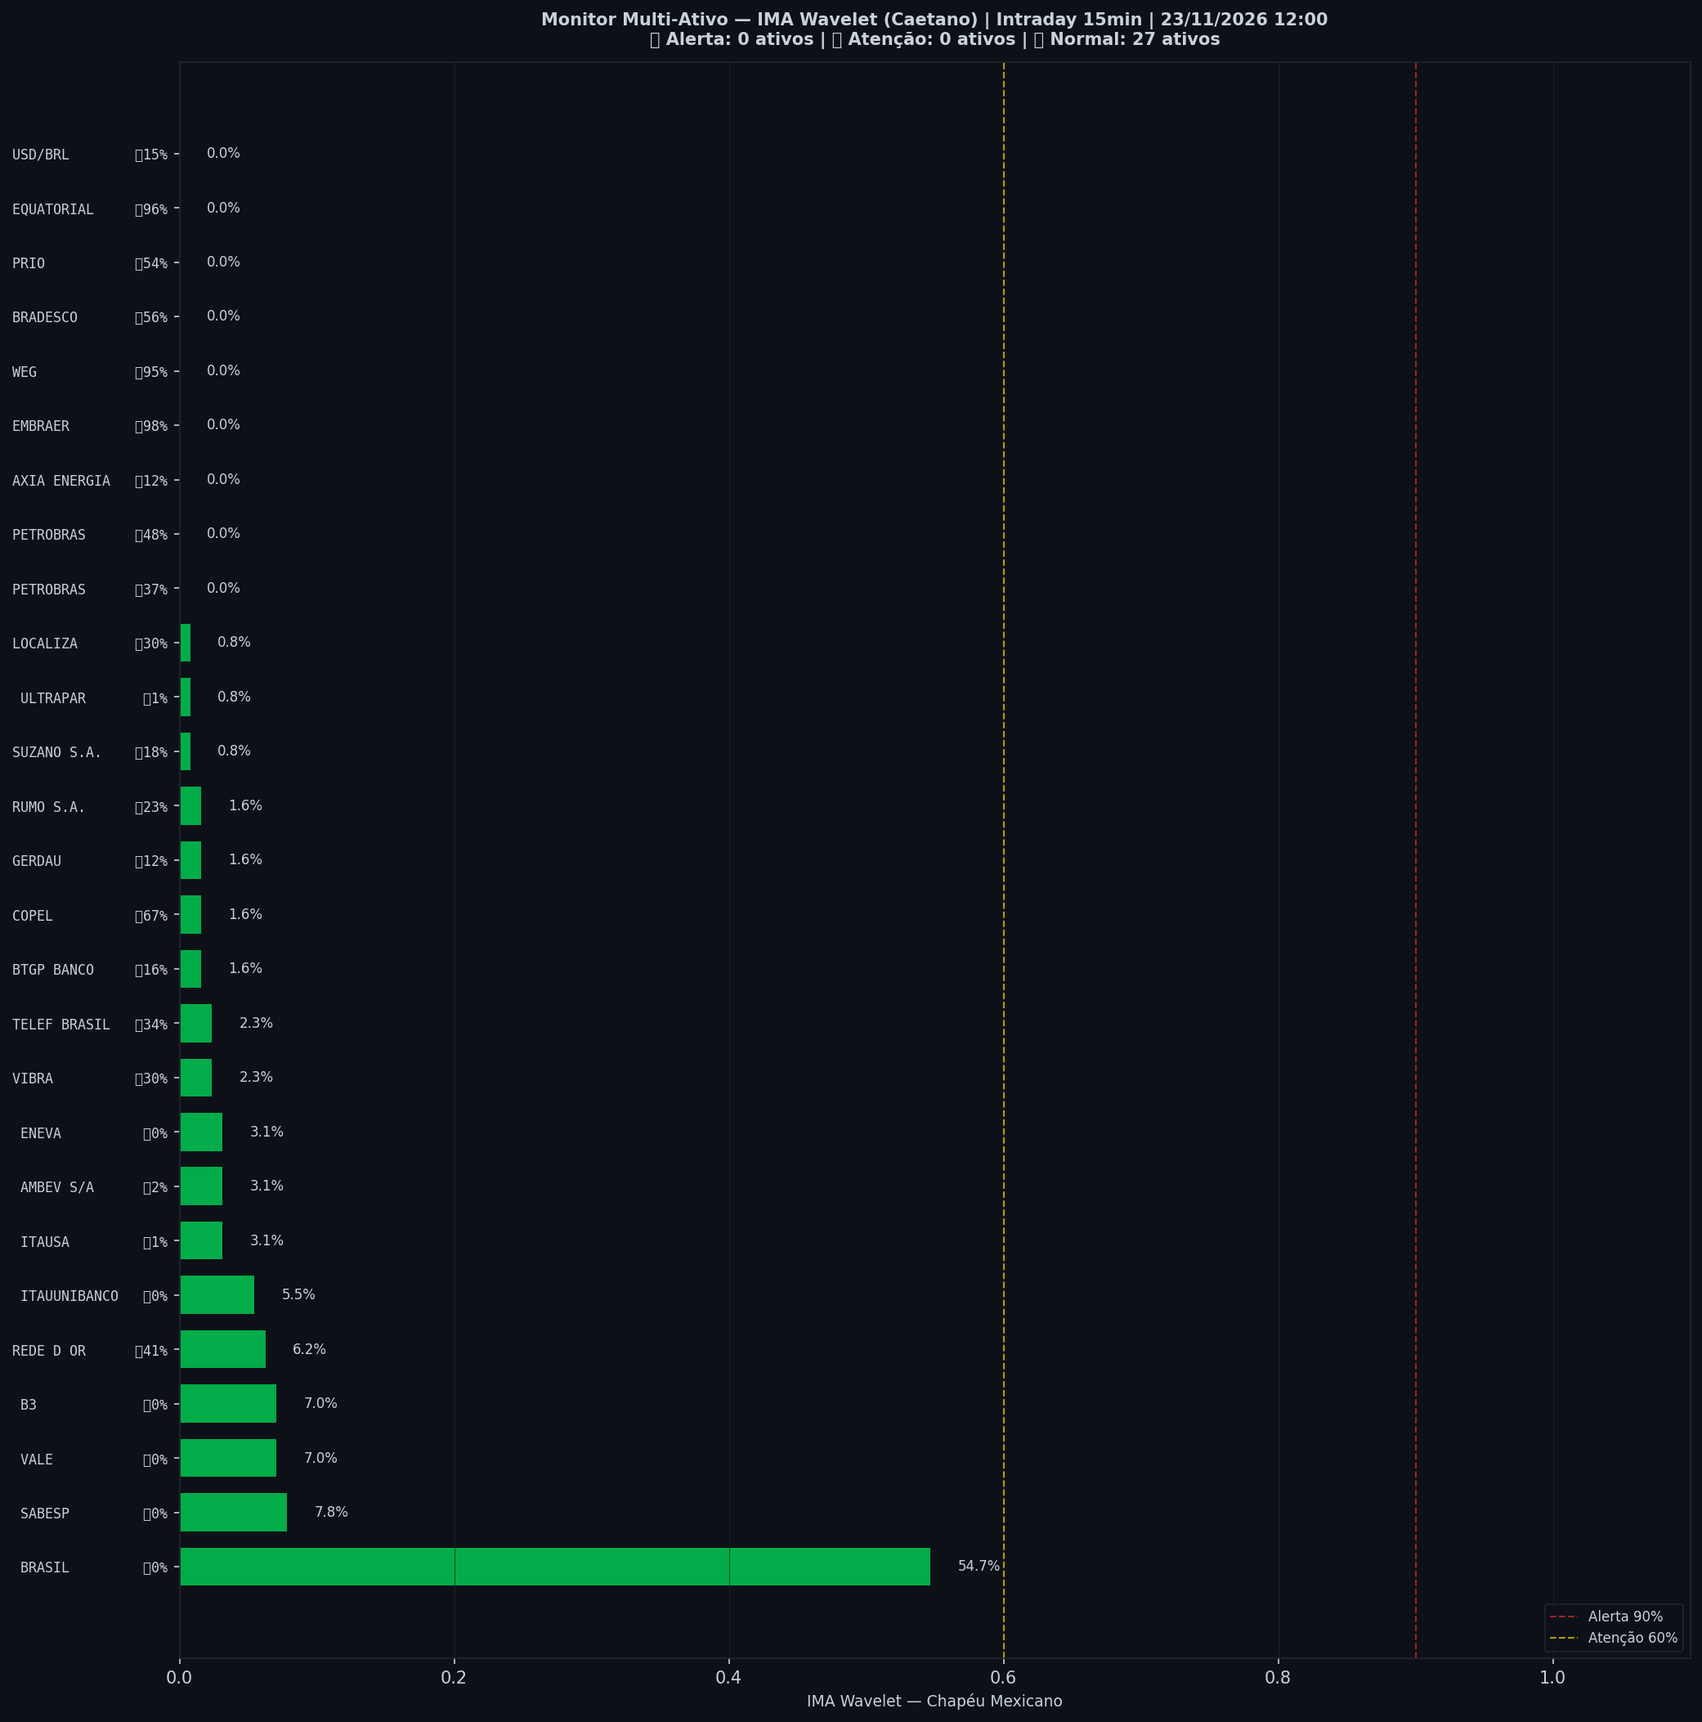
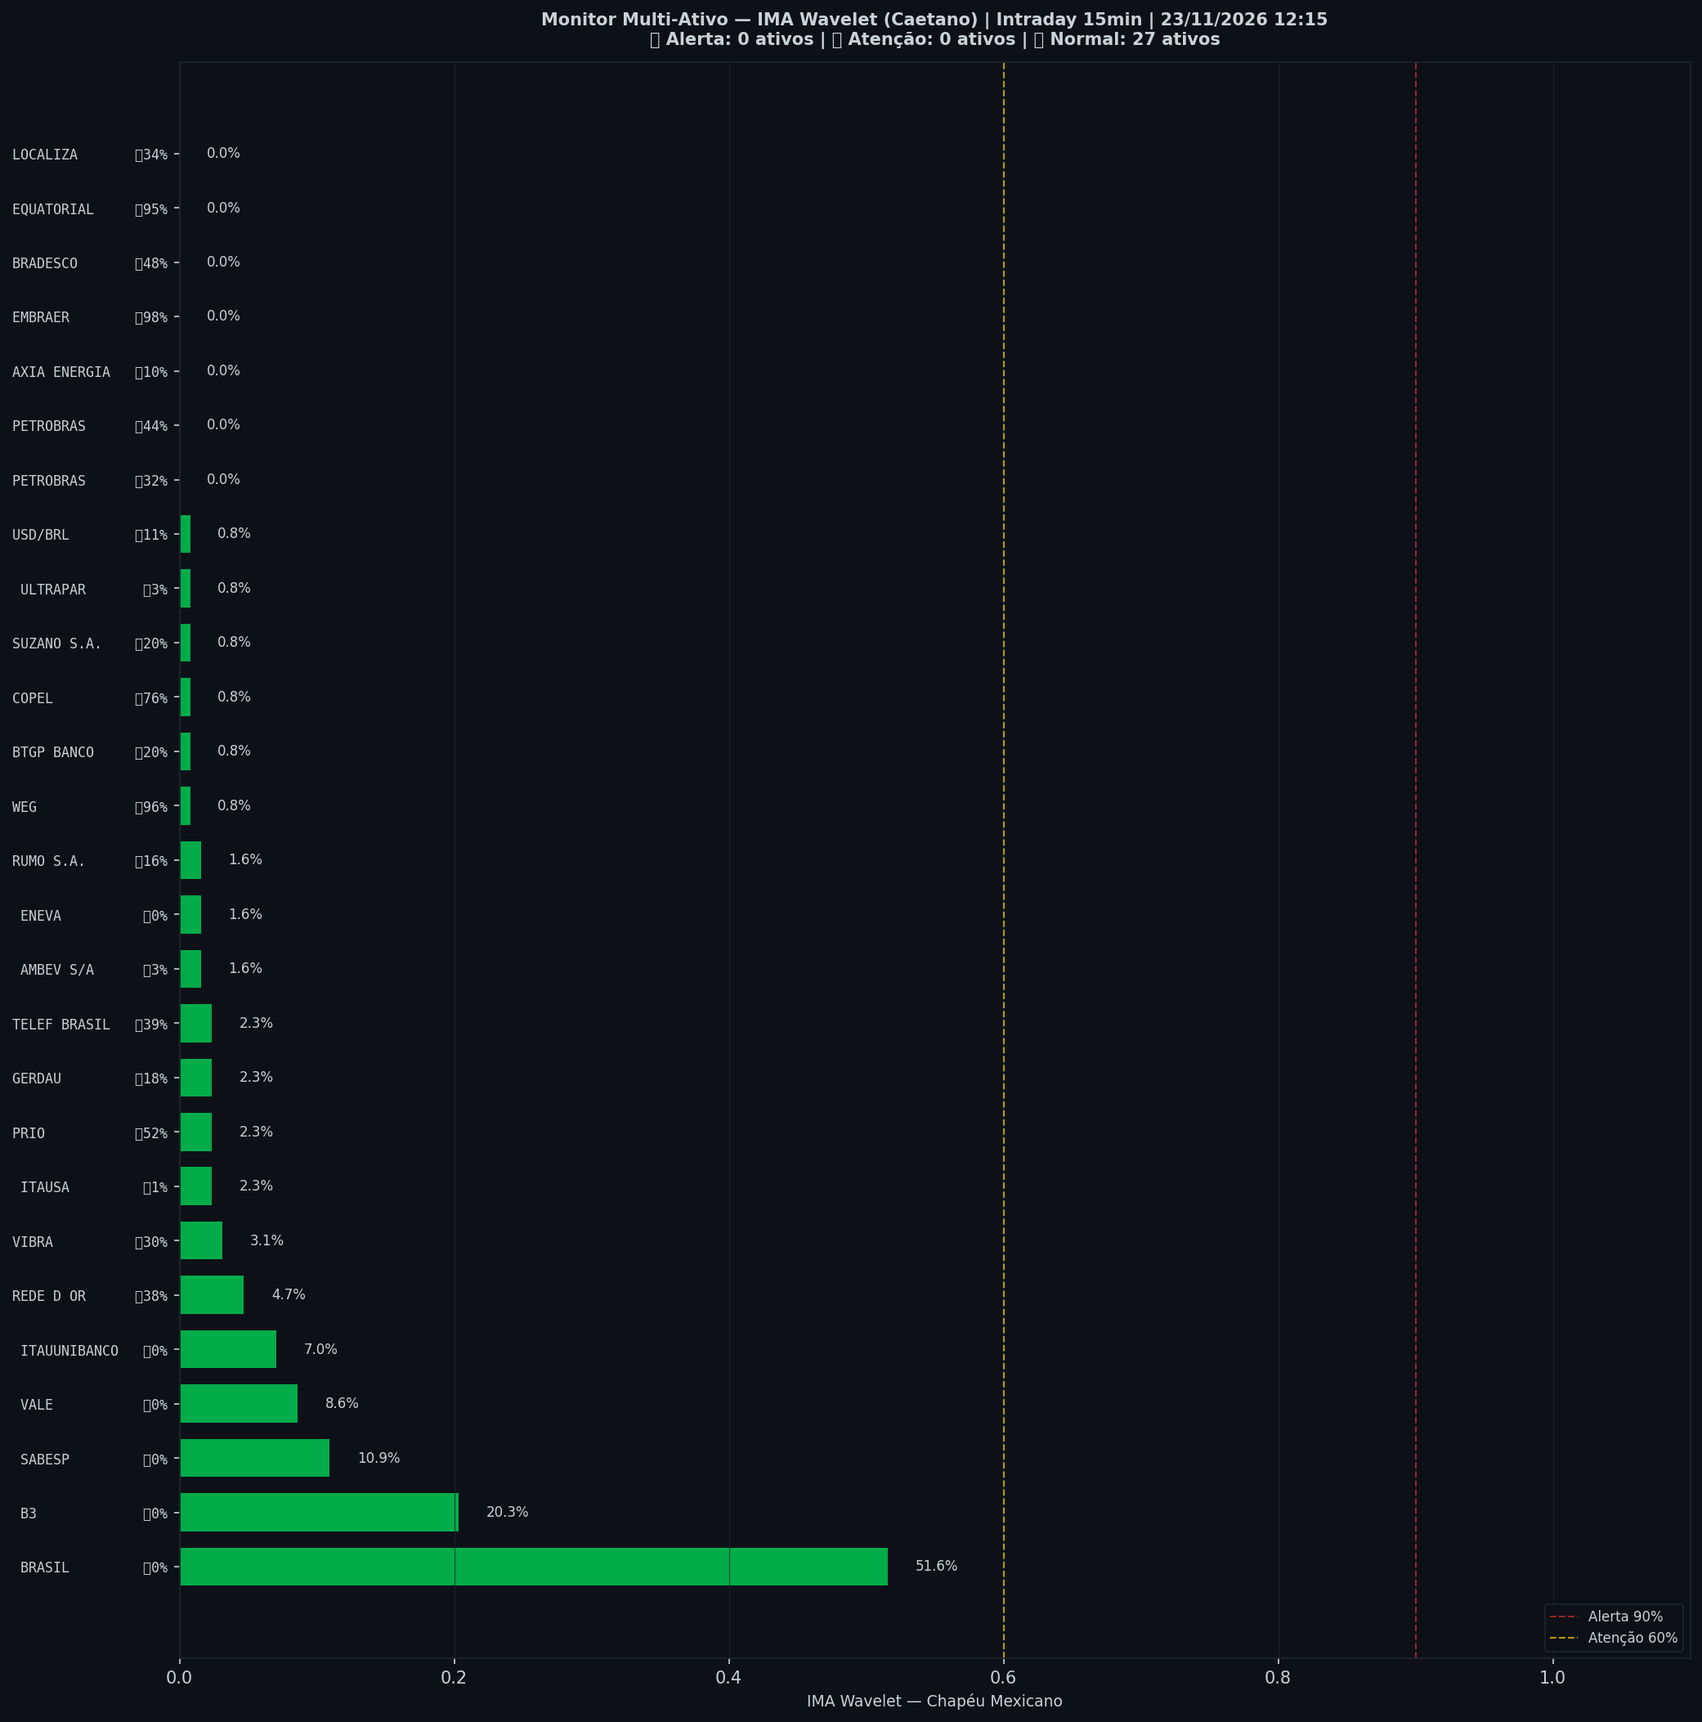
🤖 Auto: Sinal 23/11/2026 12:15

diff --git a/content/intraday/2026-11-23.md b/content/intraday/2026-11-23.md
@@ -1,13 +1,13 @@
 ---
-title: "🟢 Intraday 23/11/2026 11:15 BRT — VERDE"
+title: "🟢 Intraday 23/11/2026 11:30 BRT — VERDE"
 date: 2026-11-23
 tags: [intraday]
 ---
 
-> [!success] Onde o mercado está agora (23/11 11:15, candles de 15 min): **🟢 Calmo**
+> [!success] Onde o mercado está agora (23/11 11:30, candles de 15 min): **🟢 Calmo**
 > `Pânico ◀───────●─────────────▶ Euforia`
 >
-> **O Ibovespa cai 1,00% agora, aos 165.853 pontos.** O preço está dentro da sua faixa normal, sem excesso para cima nem para baixo.
+> **O Ibovespa cai 1,28% agora, aos 165.400 pontos.** O preço está dentro da sua faixa normal, sem excesso para cima nem para baixo.
 > No gráfico diário: 🌱 Fundo se desfazendo.
 >
 > *Leitura educacional baseada em 26 anos de dados. Não é recomendação de investimento.*
@@ -20,7 +20,7 @@ tags: [intraday]
 > | 📍 **Sinais** | hoje: nenhum sinal | [abrir](sinais-topo-fundo/) |
 > | 🧪 **Placar ao vivo** | 1 operação(ões), 0 com lucro, soma -0,8% | [abrir](operacoes/) |
 
-> [!success] IMA Intraday · 15 min (23/11 11:15): 🟢 **VERDE** — Risco 0% · ＝ +0 p.p. vs leitura anterior
+> [!success] IMA Intraday · 15 min (23/11 11:30): 🟢 **VERDE** — Risco 2% · ▲ +2 p.p. vs leitura anterior
 > `░░░░░░░░░░░░░░░░░░░░`
 > Preço na faixa normal em torno da tendência.
 
@@ -32,13 +32,13 @@ tags: [intraday]
 >
 > *Leitura educacional baseada em 26 anos de dados, não recomendação. [Como usar](../metodologia/crise#3-como-usar-na-prática).*
 
-| Indicador — IMA Intraday · 15 min (23/11 11:15) | Valor |
+| Indicador — IMA Intraday · 15 min (23/11 11:30) | Valor |
 |---|---|
-| 🔴 ζ Topo — preço esticado acima da tendência | **0%** |
-| 🔵 ζ Fundo — preço esticado abaixo da tendência | 33% |
+| 🔴 ζ Topo — preço esticado acima da tendência | **2%** |
+| 🔵 ζ Fundo — preço esticado abaixo da tendência | 30% |
 | 🫧 LPPL bolha — alta super-exponencial (risco de crash) | 0% |
 | 🫧 LPPL antibolha — queda super-exponencial (risco de repique) | 0% |
-| 📊 Ibovespa | 165.853 pts |
+| 📊 Ibovespa | 165.400 pts |
 
 ![Gráfico do sinal](../graficos/sinal_intraday.png)
 
@@ -46,6 +46,7 @@ tags: [intraday]
 
 | Data | Zona | Evento | Risco | ζ Topo | ζ Fundo | LPPL |
 |---|---|---|---|---|---|---|
+| 2026-11-23 11:30 | 🟢 VERDE |  | **2%** | 2% | 30% | 0% |
 | 2026-11-23 11:15 | 🟢 VERDE |  | **0%** | 0% | 33% | 0% |
 | 2026-11-23 11:00 | 🟢 VERDE |  | **0%** | 0% | 38% | 0% |
 | 2026-11-23 10:45 | 🟢 VERDE |  | **0%** | 0% | 38% | 0% |
@@ -75,7 +76,6 @@ tags: [intraday]
 | 2026-11-19 11:45 | 🟢 VERDE |  | **4%** | 4% | 11% | 0% |
 | 2026-11-19 11:30 | 🟢 VERDE |  | **5%** | 5% | 12% | 0% |
 | 2026-11-19 11:15 | 🟢 VERDE |  | **7%** | 7% | 14% | 0% |
-| 2026-11-19 11:00 | 🟢 VERDE |  | **5%** | 5% | 17% | 0% |
 
 <small>Destaques: 🟡 ≥ 60% · 🔴 ≥ 90% (Risco e ζ Topo) · 🔵 ≥ 60% · 🔪 ≥ 90% (ζ Fundo) · 🫧 ≥ 30% · 🫧🔴 ≥ 50% (LPPL)</small>
 
@@ -84,43 +84,43 @@ tags: [intraday]
 **0% dos ativos em tensão** (0🔴 1🟡) · **4 com ζ Fundo alto** — quanto mais ativos disparam juntos, mais confiável o sinal.
 
 > [!danger] Em destaque no multi-ativo
-> 🔪 **EMBRAER** ζ Fundo 98% · 🔪 **EQUATORIAL** ζ Fundo 96% · 🔪 **WEG** ζ Fundo 95% · 🔵 **COPEL** ζ Fundo 67%
+> 🔪 **EMBRAER** ζ Fundo 98% · 🔪 **WEG** ζ Fundo 96% · 🔪 **EQUATORIAL** ζ Fundo 95% · 🔵 **COPEL** ζ Fundo 76%
 
 | Zona | Ativo | Setor | ζ Topo | ζ Fundo |
 |---|---|---|---|---|
 | 🟢 | **EMBRAER** | Outros | 0.0% | 🔪 **98.4%** |
-| 🟢 | **EQUATORIAL** | Energia | 0.0% | 🔪 **96.1%** |
-| 🟢 | **WEG** | Industrial | 0.0% | 🔪 **95.3%** |
-| 🟢 | **COPEL** | Energia | 1.6% | 🔵 **67.2%** |
-| 🟢 | **BRADESCO** | Financeiro | 0.0% | 56.2% |
-| 🟡 | **BRASIL** | Financeiro | 54.7% | 0.0% |
-| 🟢 | **PRIO** | Petróleo | 0.0% | 53.9% |
-| 🟢 | **PETROBRAS** | Petróleo | 0.0% | 47.7% |
-| 🟢 | **REDE D OR** | Saúde | 6.2% | 40.6% |
-| 🟢 | **PETROBRAS** | Petróleo | 0.0% | 36.7% |
-| 🟢 | **TELEF BRASIL** | Outros | 2.3% | 34.4% |
-| 🟢 | **LOCALIZA** | Aluguel | 0.8% | 30.5% |
-| 🟢 | **VIBRA** | Energia | 2.3% | 29.7% |
-| 🟢 | **RUMO S.A.** | Outros | 1.6% | 22.7% |
-| 🟢 | **SUZANO S.A.** | Papel/Celulose | 0.8% | 18.0% |
-| 🟢 | **BTGP BANCO** | Financeiro | 1.6% | 15.6% |
-| 🟢 | **USD/BRL** | Câmbio | 0.0% | 14.8% |
-| 🟢 | **AXIA ENERGIA** | Energia | 0.0% | 12.5% |
-| 🟢 | **GERDAU** | Siderurgia | 1.6% | 11.7% |
-| 🟢 | **SABESP** | Saneamento | 7.8% | 0.0% |
-| 🟢 | **VALE** | Mineração | 7.0% | 0.0% |
-| 🟢 | **B3** | Financeiro | 7.0% | 0.0% |
-| 🟢 | **ITAUUNIBANCO** | Financeiro | 5.5% | 0.0% |
-| 🟢 | **ITAUSA** | Financeiro | 3.1% | 0.8% |
-| 🟢 | **AMBEV S/A** | Consumo | 3.1% | 1.6% |
-| 🟢 | **ENEVA** | Energia | 3.1% | 0.0% |
-| 🟢 | **ULTRAPAR** | Outros | 0.8% | 0.8% |
+| 🟢 | **WEG** | Industrial | 0.8% | 🔪 **96.1%** |
+| 🟢 | **EQUATORIAL** | Energia | 0.0% | 🔪 **95.3%** |
+| 🟢 | **COPEL** | Energia | 0.8% | 🔵 **75.8%** |
+| 🟢 | **PRIO** | Petróleo | 2.3% | 51.6% |
+| 🟡 | **BRASIL** | Financeiro | 51.6% | 0.0% |
+| 🟢 | **BRADESCO** | Financeiro | 0.0% | 47.7% |
+| 🟢 | **PETROBRAS** | Petróleo | 0.0% | 43.8% |
+| 🟢 | **TELEF BRASIL** | Outros | 2.3% | 39.1% |
+| 🟢 | **REDE D OR** | Saúde | 4.7% | 37.5% |
+| 🟢 | **LOCALIZA** | Aluguel | 0.0% | 33.6% |
+| 🟢 | **PETROBRAS** | Petróleo | 0.0% | 32.0% |
+| 🟢 | **VIBRA** | Energia | 3.1% | 29.7% |
+| 🟢 | **B3** | Financeiro | 20.3% | 0.0% |
+| 🟢 | **BTGP BANCO** | Financeiro | 0.8% | 20.3% |
+| 🟢 | **SUZANO S.A.** | Papel/Celulose | 0.8% | 20.3% |
+| 🟢 | **GERDAU** | Siderurgia | 2.3% | 18.0% |
+| 🟢 | **RUMO S.A.** | Outros | 1.6% | 16.4% |
+| 🟢 | **SABESP** | Saneamento | 10.9% | 0.0% |
+| 🟢 | **USD/BRL** | Câmbio | 0.8% | 10.9% |
+| 🟢 | **AXIA ENERGIA** | Energia | 0.0% | 10.2% |
+| 🟢 | **VALE** | Mineração | 8.6% | 0.0% |
+| 🟢 | **ITAUUNIBANCO** | Financeiro | 7.0% | 0.0% |
+| 🟢 | **AMBEV S/A** | Consumo | 1.6% | 3.1% |
+| 🟢 | **ULTRAPAR** | Outros | 0.8% | 3.1% |
+| 🟢 | **ITAUSA** | Financeiro | 2.3% | 0.8% |
+| 🟢 | **ENEVA** | Energia | 1.6% | 0.0% |
 
 <small>Destaques: 🟡 ≥ 60% · 🔴 ≥ 90% (Risco e ζ Topo) · 🔵 ≥ 60% · 🔪 ≥ 90% (ζ Fundo) · 🫧 ≥ 30% · 🫧🔴 ≥ 50% (LPPL)</small>
 
 ![Monitor multi-ativo](../graficos/multi_intraday.png)
 
-*Página atualizada em 23/11/2026 12:00 BRT (leitura da barra de 2026-11-23 11:15 BRT).*
+*Página atualizada em 23/11/2026 12:15 BRT (leitura da barra de 2026-11-23 11:30 BRT).*
 
 > [!warning] O que este indicador não faz
 > Medido em 5 anos de Ibovespa, o ζ **não antecipa** topos nem fundos: a capacidade de separar o que sobe do que cai ficou em 0,49–0,52, e 0,50 é moeda jogada ao ar. Ele descreve o estado de agora; não é aviso do que vem. As zonas verde/amarelo/vermelho continuam na página como descrição desse estado — **não as use como sinal de entrada ou saída**.

diff --git a/content/index.md b/content/index.md
@@ -7,12 +7,12 @@ tags: [home]
 
 **As ondas do mercado, explicadas.** Leitura do Ibovespa com estatística de 26 anos, baseada no trabalho de pesquisadores e traders reconhecidos e adaptada por Jarbas Daniel da Costa.
 
-*Última atualização: 23/11/2026 12:00 BRT · Intraday 15min*
+*Última atualização: 23/11/2026 12:15 BRT · Intraday 15min*
 
-> [!success] Onde o mercado está agora (23/11 11:15, candles de 15 min): **🟢 Calmo**
+> [!success] Onde o mercado está agora (23/11 11:30, candles de 15 min): **🟢 Calmo**
 > `Pânico ◀───────●─────────────▶ Euforia`
 >
-> **O Ibovespa cai 1,00% agora, aos 165.853 pontos.** O preço está dentro da sua faixa normal, sem excesso para cima nem para baixo.
+> **O Ibovespa cai 1,28% agora, aos 165.400 pontos.** O preço está dentro da sua faixa normal, sem excesso para cima nem para baixo.
 > No gráfico diário: 🌱 Fundo se desfazendo.
 >
 > *Leitura educacional baseada em 26 anos de dados. Não é recomendação de investimento.*
@@ -21,7 +21,7 @@ tags: [home]
 
 | Módulo | Agora | |
 |---|---|---|
-| 🌊 **Sinal IMA** | 🟢 VERDE · 🟢 calmo · ζ Topo 0% | [relatório](intraday/2026-11-23) |
+| 🌊 **Sinal IMA** | 🟢 VERDE · 🟢 calmo · ζ Topo 2% | [relatório](intraday/2026-11-23) |
 | 📈 **Tendência MME9** | Diário — fora<br>Semanal — fora | [abrir](operacoes/tendencia) |
 | 🎯 **Entradas do método** | 🟢 comprado: Diário · Semáforo N3 após ζ Fundo | [abrir](operacoes/entradas) |
 | 📍 **Sinais** | hoje: nenhum sinal | [abrir](sinais-topo-fundo/) |
@@ -50,18 +50,18 @@ tags: [home]
 > *Leitura educacional baseada em 26 anos de dados, não recomendação. [Como usar](metodologia/crise#3-como-usar-na-prática).*
 
 > [!info]- 🌊 Detalhes do Sinal IMA (indicadores e últimos 7 pregões)
-> > [!success] IMA Intraday · 15 min (23/11 11:15): 🟢 **VERDE** — Risco 0% · ＝ +0 p.p. vs leitura anterior
+> > [!success] IMA Intraday · 15 min (23/11 11:30): 🟢 **VERDE** — Risco 2% · ▲ +2 p.p. vs leitura anterior
 > > `░░░░░░░░░░░░░░░░░░░░`
 > > Preço na faixa normal em torno da tendência.
 >
 >
-> | Indicador — IMA Intraday · 15 min (23/11 11:15) | Valor |
+> | Indicador — IMA Intraday · 15 min (23/11 11:30) | Valor |
 > |---|---|
-> | 🔴 ζ Topo — preço esticado acima da tendência | **0%** |
-> | 🔵 ζ Fundo — preço esticado abaixo da tendência | 33% |
+> | 🔴 ζ Topo — preço esticado acima da tendência | **2%** |
+> | 🔵 ζ Fundo — preço esticado abaixo da tendência | 30% |
 > | 🫧 LPPL bolha — alta super-exponencial (risco de crash) | 0% |
 > | 🫧 LPPL antibolha — queda super-exponencial (risco de repique) | 0% |
-> | 📊 Ibovespa | 165.853 pts |
+> | 📊 Ibovespa | 165.400 pts |
 >
 > **Multi-ativo:** 0% em tensão (0🔴 1🟡 de 27 ativos)
 >
@@ -69,7 +69,7 @@ tags: [home]
 >
 > | Data | Zona | Risco | ζ Topo | ζ Fundo | LPPL |
 > |---|---|---|---|---|---|
-> | [23/11/2026](intraday/2026-11-23) | 🟢 VERDE | **0%** | 0% | 33% | 0% |
+> | [23/11/2026](intraday/2026-11-23) | 🟢 VERDE | **2%** | 2% | 30% | 0% |
 > | [19/11/2026](intraday/2026-11-19) | 🟢 VERDE | **0%** | 0% | 12% | 0% |
 >
 > <small>Destaques: 🟡 ≥ 60% · 🔴 ≥ 90% (Risco e ζ Topo) · 🔵 ≥ 60% · 🔪 ≥ 90% (ζ Fundo) · 🫧 ≥ 30% · 🫧🔴 ≥ 50% (LPPL)</small>

diff --git a/content/operacoes/entradas.md b/content/operacoes/entradas.md
@@ -84,7 +84,7 @@ description: "Compra depois de um sinal de fundo: Nadaraya no diário, semáforo
 > | Diário · Semáforo N3 após ζ Fundo | 07/07/26 a 172.021 | 10/08/26 a 172.021 | **+0,0%** | stop no preço de entrada |
 > | H4 · Semáforo N2 | 12/06/26 14h a 171.134 | 15/06/26 14h a 171.134 | **+0,0%** | stop no preço de entrada |
 >
-> <small>Atualizado 20/11 19:00 · checado no pregão às 11:30. Nota: ✅ passou no teste fora da amostra (walk-forward 2008–2026) · 🧪 em teste (H4, com aviso no Telegram) ou em observação (ζ, sem aviso) · 🧪 na tabela = operação do teste ao vivo.</small>
+> <small>Atualizado 20/11 19:00 · checado no pregão às 11:45. Nota: ✅ passou no teste fora da amostra (walk-forward 2008–2026) · 🧪 em teste (H4, com aviso no Telegram) ou em observação (ζ, sem aviso) · 🧪 na tabela = operação do teste ao vivo.</small>
 >
 > *Regras: depois de um sinal de fundo, o Diário entra quando o Nadaraya vira para cima; o Semanal e o H4 entram quando um fundo do semáforo fica fixo. Stop e saída de cada regra na [metodologia](metodologia/regras-de-operacao#entradas-do-método). Nenhuma regra de venda passou no teste. Os números do histórico têm viés de escolha (overfitting); o placar ao vivo é o que vale. Leitura educacional do método, não recomendação.*
 

diff --git a/content/integridade/index.md b/content/integridade/index.md
@@ -6,7 +6,7 @@ description: "O que foi conferido, contra qual fonte e quando — medido na hora
 tags: [integridade]
 ---
 
-*Pregão conferido: **19/11/2026**, com 54 tabelas no acervo · página gerada em 23/11/2026 12:00*
+*Pregão conferido: **19/11/2026**, com 54 tabelas no acervo · página gerada em 23/11/2026 12:15*
 
 O pregão conferido é o último **fechado e arquivado inteiro**, não o de hoje: enquanto o dia corre, só algumas tabelas estão gravadas, e conferir um dia pela metade produziria alarme falso.
 
@@ -23,7 +23,7 @@ Esta página não declara que o site está correto. Ela **mede** e escreve o res
 | Tabelas com conteúdo fora da curva | nenhuma |
 | Páginas publicadas | 364 |
 | Conferências cruzadas das páginas | 71 certas, nenhuma divergência |
-| Página escrita mais recentemente | 23/11 12:00 |
+| Página escrita mais recentemente | 23/11 12:15 |
 | Páginas sem data no cabeçalho | 9 — cegas para a conferência de dado |
 
 ## 1 · Acervo do boletim diário

diff --git a/content/operacoes/ranking.md b/content/operacoes/ranking.md
@@ -56,7 +56,7 @@ description: "As regras de compra do site ordenadas pelo resultado, com treino, 
 > 
 > Operação **com 🧪** começou depois de **23/10/2026**, com as regras congeladas. É o único resultado sem nenhum ajuste ao passado, e é por ele que cada regra está sendo julgada.
 
-*Atualizado 23/11/2026 12:00 · histórico simulado com as regras congeladas em 23/10/2026 + placar ao vivo.*
+*Atualizado 23/11/2026 12:15 · histórico simulado com as regras congeladas em 23/10/2026 + placar ao vivo.*
 
 As regras de compra do site, **da que mais rendeu para a que menos rendeu**. O resultado é por operação, no índice à vista, sem custos e sem juros compostos (a soma é só a soma das operações). **Treino** = entradas de 2001 a 2013 e **teste** = 2014 em diante: uma regra só é confiável se ganhou nos dois. O único resultado sem nenhum ajuste ao histórico é o **placar ao vivo**.
 

diff --git a/content/historico.md b/content/historico.md
@@ -5,7 +5,7 @@ tags: [historico]
 
 # 📜 Histórico de leituras (v5)
 
-**2.521 leituras** desde 2026-07-03. Na página ficam os últimos 3 dias leitura por leitura e o resumo de cada dia anterior; o registro inteiro está no arquivo para baixar.
+**2.522 leituras** desde 2026-07-03. Na página ficam os últimos 3 dias leitura por leitura e o resumo de cada dia anterior; o registro inteiro está no arquivo para baixar.
 
 [**Baixar o histórico completo**](historico-completo.csv) (110 KB · abre no Excel e no LibreOffice)
 
@@ -16,6 +16,7 @@ tags: [historico]
 
 | Data | Modo | Zona | Risco | IMA | LPPL |
 |---|---|---|---|---|---|
+| 2026-11-23 11:30 | intraday | 🟢 VERDE | 2% | 2% | 0% |
 | 2026-11-23 11:15 | intraday | 🟢 VERDE | 0% | 0% | 0% |
 | 2026-11-23 11:00 | intraday | 🟢 VERDE | 0% | 0% | 0% |
 | 2026-11-23 10:45 | intraday | 🟢 VERDE | 0% | 0% | 0% |

diff --git a/content/linha-do-tempo/index.md b/content/linha-do-tempo/index.md
@@ -5,7 +5,7 @@ description: "Todo sinal, ordem, stop e aviso do Pêndulo de Mercado, do mais re
 tags: [eventos]
 ---
 
-*Atualizada 23/11/2026 12:00 BRT · a cada 15 min no pregão e às 19h.*
+*Atualizada 23/11/2026 12:15 BRT · a cada 15 min no pregão e às 19h.*
 
 Tudo o que o sistema fez ou detectou, **do mais recente para o mais antigo**: sinais de topo e fundo, ordens de compra e de venda armadas, compras, vendas, stops, avisos de 🚨 preço perto do nível e mudanças do Sinal IMA. Os **últimos 7 dias** ficam abertos; o resto, por **ano → mês → dia**.
 

diff --git a/content/avisos/index.md b/content/avisos/index.md
@@ -2,7 +2,7 @@
 title: "⚠ Avisos: o que saber antes de usar os números"
 ---
 
-*Gerado em 23/11/2026 12:00*
+*Gerado em 23/11/2026 12:15*
 
 Este site publica muitos números, e cada um tem uma limitação que importa na hora de
 decidir. As limitações estão escritas nas próprias páginas, mas quem chega direto numa
